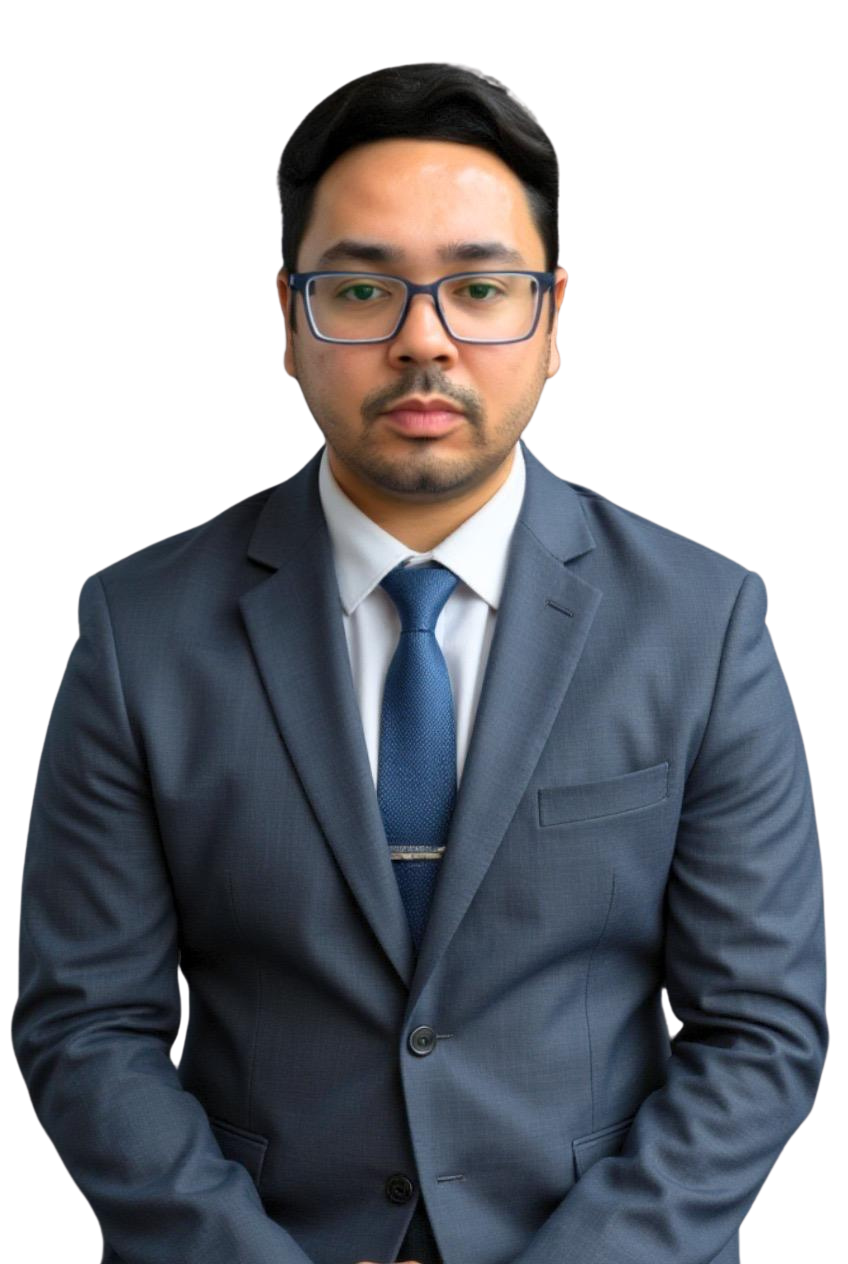
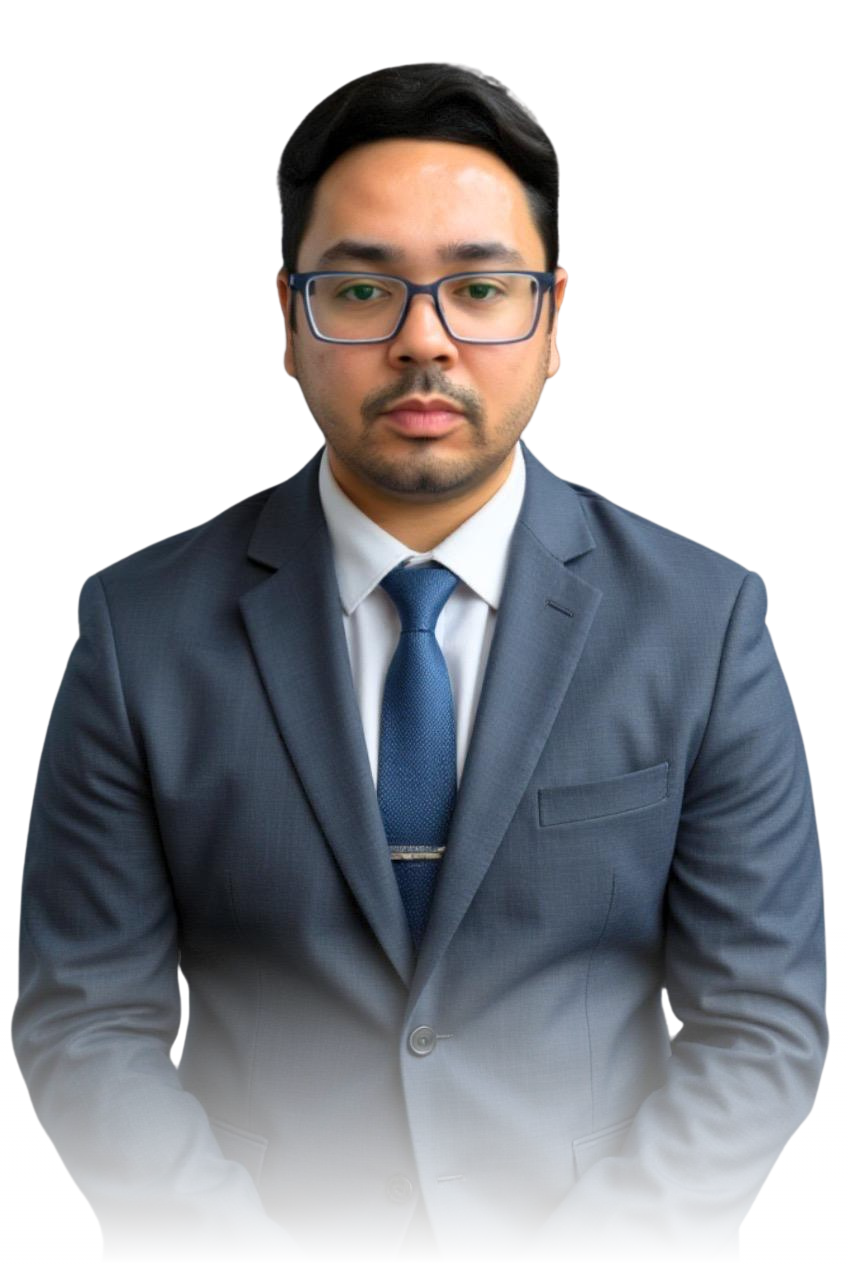
Atualiza imagem de perfil e corrige informações do escritório no HTML

Changed region(s): [[0.0, 0.7405, 0.9811, 1.0]]

diff --git a/index.html b/index.html
@@ -90,13 +90,16 @@
                             class="inline-block bg-green-500 text-white px-6 py-3 rounded-lg text-lg font-semibold hover:bg-green-600 transition duration-300">
                             QUERO RECUPERAR MINHA CONTA
                         </a>
-                        <p class="text-sm text-gray-500 mt-2">Clique acima para falar com a nossa sócia Mariana Paixão
+                        <p class="text-sm text-gray-500 mt-2">Clique acima para falar com um advogado
+                            especializado
                             pelo
                             WhatsApp</p>
                     </div>
                 </div>
 
-                <img src="assets/images/perfil2.png" alt="perfil advogados" class="mx-auto w-1/2 md:w-md">
+                <div class="max-w-4xl mx-auto px-4 md:w-md">
+                    <img src="assets/images/perfil2.png" alt="perfil advogados" class="">
+                </div>
 
             </div>
         </section>
@@ -259,8 +262,9 @@
                 <h2 class="text-2xl md:text-3xl font-bold text-center text-gray-800 mb-6">Sobre o Escritório de
                     Advocacia</h2>
                 <p class="text-lg text-center text-gray-600 mb-4">
-                    O <strong>MPX Advogados</strong> é um escritório de advocacia <strong>especializado em Direito
-                        Digital</strong>, sediado na cidade de Santos/SP, com <strong>atuação em todo o Brasil</strong>
+                    O <strong>Takeshy Advocacia especializada</strong> é um escritório de advocacia
+                    <strong>especializado em Direito
+                        Digital</strong>, sediado na cidade de Peruíbe/SP, com <strong>atuação em todo o Brasil</strong>
                     de forma totalmente <strong>digital</strong>, para acelerar a resolução das causas e prezar pelo
                     conforto dos nossos clientes.
                 </p>
@@ -296,13 +300,13 @@
     {
       "@context": "https://schema.org",
       "@type": "LawFirm",
-      "name": "MPX Advogados",
+      "name": "Takeshy Advocacia Especializada",
       "description": "Escritório especializado em recuperação judicial de contas do Instagram",
       "url": "https://seusite.com.br",
-      "telephone": "+55-13-974264689",
+      "telephone": "+55-1397426-4689",
       "address": {
         "@type": "PostalAddress",
-        "addressLocality": "Santos",
+        "addressLocality": "Peruíbe",
         "addressRegion": "SP",
         "addressCountry": "BR"
       },
